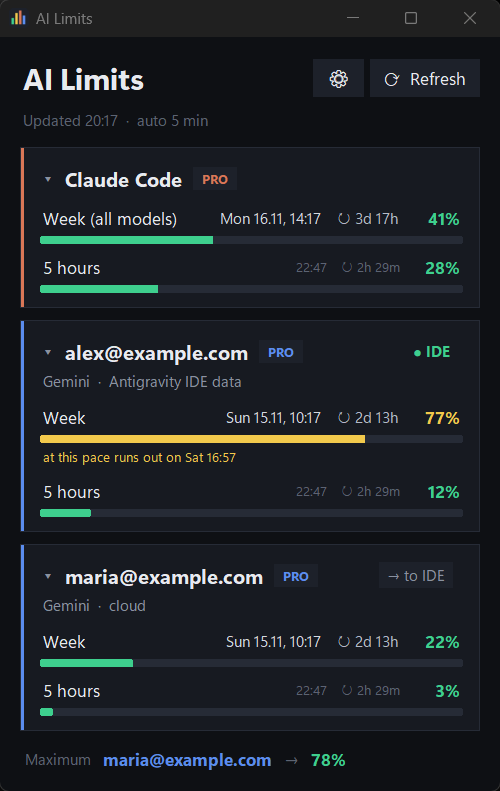
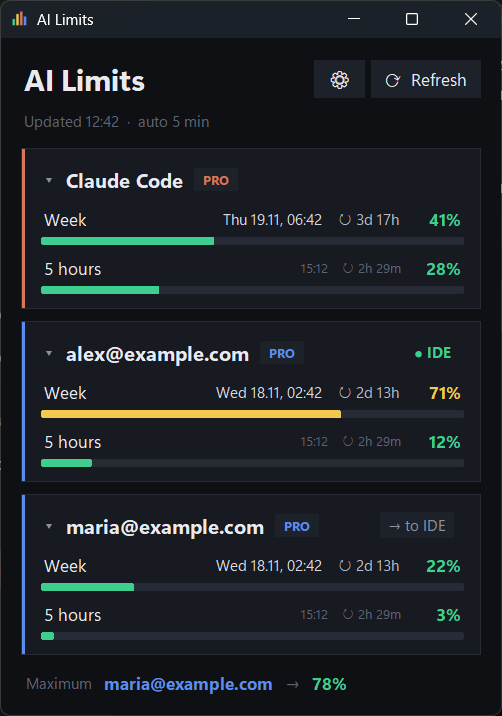
AI Limits 1.4.3: move forecast to chart window, remove source line, fix idle gap rendering on chart

diff --git a/ui_cards.py b/ui_cards.py
@@ -28,7 +28,7 @@ def _vis(w, on):
 
 
 class RowView:
-    """Строка лимита: название, время сброса, отсчёт, процент, полоса и (если есть) строка прогноза.
+    """Строка лимита: название, время сброса, отсчёт, процент и полоса.
     Создаётся один раз, update() меняет только значения. on_click(виджет) — щелчок по строке (график расхода)."""
 
     def __init__(self, parent, name, on_click=None):
@@ -55,27 +55,12 @@ class RowView:
                                "или если войти этим аккаунтом в IDE Antigravity."))
         self.bar = Bar(self.f, 0, FAINT)
         self.bar.pack(fill="x", pady=(4, 0))
-        self.fc = tk.Label(self.f, bg=CARD, fg=YELLOW, font=(FONT, 8), anchor="w")  # прогноз: под полосой
-        self._fc_on = False
         if on_click:
             for w in (self.f, top, self.bar, *top.winfo_children()):
                 w.bind("<Button-1>", lambda e: on_click(self.f), add="+")
                 w.config(cursor="hand2")
 
-    def _forecast(self, line):
-        """Строка «при таком темпе хватит на …, до …» показывается, только когда лимит кончится раньше сброса.
-        line — «хватит на 2 дня 5 часов, до чт 14:00» или None."""
-        if line:
-            _set(self.fc, text=T("при таком темпе {line}", line=line))
-        if bool(line) != self._fc_on:
-            self._fc_on = bool(line)
-            if line:
-                self.fc.pack(fill="x", pady=(2, 0))
-            else:
-                self.fc.pack_forget()
-
-    def update(self, used, resets_at, seen, warn, line=None):
-        self._forecast(line if used is not None else None)
+    def update(self, used, resets_at, seen, warn):
         if used is None:
             for w in (self.pct, self.seen, self.rs, self.time):
                 _vis(w, False)
@@ -105,7 +90,7 @@ class CardView:
     def __init__(self, app, key, title, accent):
         self.app, self.key = app, key
         self.rows, self.collapsible, self.ide_mode = [], False, None
-        self._sub_on = self._content_on = False
+        self._content_on = False
         self._msg_pady = None
         self.outer = tk.Frame(app.body, bg=BG)
         f = tk.Frame(self.outer, bg=CARD, highlightbackground=LINE, highlightthickness=1)
@@ -132,7 +117,6 @@ class CardView:
         self.ide.bind("<Enter>", lambda e: self.ide_mode == "switch" and self.ide.config(fg=FG))
         self.ide.bind("<Leave>", lambda e: self.ide_mode == "switch" and self.ide.config(fg=MUTED))
         self.ide_tip = Tooltip(self.ide, "")
-        self.sub = tk.Label(inner, bg=CARD, fg=MUTED, font=(FONT, 9), anchor="w")
         self.content = tk.Frame(inner, bg=CARD)
         self.msg = tk.Label(self.content, bg=CARD, anchor="w", justify="left", wraplength=380)
         self.rows_box = tk.Frame(self.content, bg=CARD)
@@ -163,8 +147,6 @@ class CardView:
                 self.ide_tip.text = T("Сделать этот аккаунт текущим в IDE Antigravity")
             _vis(self.ide, bool(mode))
 
-        if spec["sub"]:
-            _set(self.sub, text=spec["sub"])
         msg = spec["msg"]  # (текст, цвет, шрифт, отступы) или None
         if msg:
             _set(self.msg, text=msg[0], fg=msg[1], font=msg[2])
@@ -182,15 +164,13 @@ class CardView:
                          for n in names]
             if not names:
                 self.rows_box.config(height=1)  # пустая рамка не держит прежнюю высоту
-        for view, (_, used, resets_at, seen, line) in zip(self.rows, spec["rows"]):
-            view.update(used, resets_at, seen, warn, line)
+        for view, (_, used, resets_at, seen) in zip(self.rows, spec["rows"]):
+            view.update(used, resets_at, seen, warn)
 
-        sub_on, content_on = bool(spec["sub"]), bool(msg or names)
-        if (sub_on, content_on) != (self._sub_on, self._content_on):
-            self._sub_on, self._content_on = sub_on, content_on
-            self.sub.pack_forget()
-            self.content.pack_forget()
-            if sub_on:
-                self.sub.pack(fill="x")
+        content_on = bool(msg or names)
+        if content_on != self._content_on:
+            self._content_on = content_on
             if content_on:
                 self.content.pack(fill="x")
+            else:
+                self.content.pack_forget()

diff --git a/tests/test_gui.py b/tests/test_gui.py
@@ -126,9 +126,9 @@ def main():
     assert app.status.cget("text").startswith("Обновлено")
     step("карточки Claude и двух аккаунтов; данные IDE важнее облачных")
 
-    card = " ".join(texts(app.cards["a@example.com"].outer))
-    assert "при таком темпе хватит на 1 день 3 часа, до " in card and app.cards["a@example.com"].rows[0]._fc_on, card
-    assert not app.cards["a@example.com"].rows[1]._fc_on and not app.cards["b@example.com"].rows[0]._fc_on
+    card = " ".join(texts(app.cards["a@example.com"].outer) + texts(app.cards["b@example.com"].outer))
+    assert "хватит" not in card and "облако" not in card and "Gemini" not in card, card  # ни прогноза, ни источника
+    assert app.fc[("a@example.com", "Неделя")]["line"].startswith("хватит на 1 день 3 часа, до ")
     assert os.path.exists(history.history_file())
     assert getattr(app, "alert_win", None) is None and app.forecast_alerts() == []  # по умолчанию выключены
     app.s["forecast_alerts"] = True
@@ -149,7 +149,8 @@ def main():
     assert "a" in shown and any(t.startswith("до ") for t in shown) and not any("неделя" in t for t in shown), shown
     app.hide_alert()
     app.s["forecast_alerts"] = False
-    step("прогноз: строка в карточке; всплывающее предупреждение выключено по умолчанию, не чаще раза в час")
+    step("прогноз считается, но в карточках его нет; строки источника нет; всплывающее предупреждение выключено"
+         " по умолчанию, не чаще раза в час")
 
     app.show_history("a@example.com", "Неделя", app.cards["a@example.com"].rows[0].f)
     yield wait()
@@ -165,10 +166,9 @@ def main():
     app.close_confirm()
     app.show_popup()
     yield wait()
-    assert any(t.startswith("a — хватит на 1 день") for t in texts(app.popup)), texts(app.popup)
-    assert not any("5 час" in t and "хватит" in t for t in texts(app.popup))
+    assert not any("хватит" in t for t in texts(app.popup)), texts(app.popup)
     app.hide_popup()
-    step("график расхода по щелчку на строке; прогноз в мини-окне трея")
+    step("график расхода по щелчку на строке; в мини-окне трея прогноза нет")
 
     cards, count = dict(app.cards), widgets(app.body)
     STATE["week_a"] = 61.0
@@ -193,12 +193,9 @@ def main():
     def seen():
         return " | ".join(texts(root)) + " | " + app.status.cget("text")
     cards = len(app.cards)
-    for code, words in (("en", ("Refresh", "Week", "5 hours", "Antigravity IDE data", "cloud", "Maximum",
-                                "Updated", "auto 5 min", "at this pace lasts", "→ to IDE")),
-                        ("uk", ("Оновити", "Тиждень", "5 годин", "дані IDE Antigravity", "хмара", "Оновлено",
-                                "авто 5 хв", "за такого темпу вистачить на", "→ в IDE")),
-                        ("ru", ("Обновить", "Неделя", "5 часов", "данные IDE Antigravity", "облако", "Обновлено",
-                                "авто 5 мин", "при таком темпе хватит на"))):
+    for code, words in (("en", ("Refresh", "Week", "5 hours", "Maximum", "Updated", "auto 5 min", "→ to IDE")),
+                        ("uk", ("Оновити", "Тиждень", "5 годин", "Оновлено", "авто 5 хв", "→ в IDE")),
+                        ("ru", ("Обновить", "Неделя", "5 часов", "Обновлено", "авто 5 мин"))):
         app.set_lang(code)
         yield wait()
         text = seen()

diff --git a/ui_history.py b/ui_history.py
@@ -22,11 +22,6 @@ class HistoryMixin:
             self.fc = {}
             L.log_exception("история лимитов", type(e), e, e.__traceback__)
 
-    def fc_line(self, key, window):
-        """«хватит на 2 дня 5 часов, до чт 14:00», если по прогнозу лимит кончится раньше сброса; иначе None."""
-        fc = getattr(self, "fc", {}).get((key.lower(), window))
-        return fc["line"] if fc else None
-
     ALERT_GAP = 3600     # предупреждение по прогнозу об одном лимите — не чаще раза в час
     ALERT_SHIFT = 1800   # …и только если расчётное время исчерпания сдвинулось хотя бы на полчаса
 
@@ -38,10 +33,6 @@ class HistoryMixin:
     @staticmethod
     def _who(key):
         return "Claude" if key == "claude" else key.split("@")[0]
-
-    def forecast_soon(self):
-        """Для мини-окна трея: [(чей лимит, «хватит на …, до …»)] — только недельные лимиты."""
-        return [(self._who(k), fc["line"]) for k, _, fc in self._weekly_soon()]
 
     def forecast_alerts(self):
         """Всплывающие предупреждения по прогнозу: [(чей лимит, «чт 14:00»)]. Включаются галочкой в меню ⚙
@@ -105,11 +96,12 @@ class HistoryMixin:
             cv.create_text(x(t.timestamp()), h - bottom + 3, anchor="n", fill=FAINT, font=(FONT, 8),
                            text=day(t.weekday()) if week else f"{t:%H}:00")
             t += step
-        if len(pts) > 1:
-            cv.create_line([c for ts, used in pts for c in (x(ts), y(used))], fill=GOOGLE, width=max(2, round(2 * k)),
-                           joinstyle="round")
+        width = max(2, round(2 * k))
+        for thin, run in H.graph_path(pts):  # сбросы и нули — линией вдвое тоньше
+            cv.create_line([c for ts, used in run for c in (x(max(ts, now - span)), y(used))], fill=GOOGLE,
+                           width=width / 2 if thin else width, joinstyle="round")
         if pts:
-            ts, used = pts[-1]
+            ts, used, _ = pts[-1]
             r = max(3, round(3 * k))
             cv.create_oval(x(ts) - r, y(used) - r, x(ts) + r, y(used) + r, fill=color_for(used, self.warn), outline="")
         else:

diff --git a/history.py b/history.py
@@ -127,8 +127,33 @@ def record(claude, ag, now=None):
 
 
 def series(key, window, since):
-    """Точки ряда не раньше since: [(время, %)]."""
-    return [(ts, used) for ts, used, _ in load().get((key.lower(), window), []) if ts >= since]
+    """Точки ряда не раньше since: [(время, %, время сброса или None)]."""
+    return [p for p in load().get((key.lower(), window), []) if p[0] >= since]
+
+
+def graph_path(pts):
+    """Ломаная графика по точкам [(время, %, сброс)]: [(тонкая ли, [(время, %), …])], отрезки подряд одной толщины
+    слиты. Если время сброса прошло между двумя точками (простой: программа не опрашивала), значение держится до
+    сброса, падает до нуля и лежит на нуле до следующей точки — без косой линии через простой. Сброс без известного
+    времени (значение упало) — вертикальный спуск у следующей точки. Вертикальные спуски и отрезки на нуле — тонкие."""
+    segs = []
+    for (t0, u0, r0), (t1, u1, _) in zip(pts, pts[1:]):
+        if r0 and t0 < r0 <= t1:
+            segs += [(t0, u0, r0, u0), (r0, u0, r0, 0.0), (r0, 0.0, t1, 0.0), (t1, 0.0, t1, u1)]
+        elif u1 < u0 - 1:
+            segs += [(t0, u0, t1, u0), (t1, u0, t1, u1)]
+        else:
+            segs.append((t0, u0, t1, u1))
+    runs = []
+    for t0, u0, t1, u1 in segs:
+        if (t0, u0) == (t1, u1):
+            continue
+        thin = t0 == t1 or (u0 < 0.5 and u1 < 0.5)
+        if runs and runs[-1][0] == thin and runs[-1][1][-1] == (t0, u0):
+            runs[-1][1].append((t1, u1))
+        else:
+            runs.append((thin, [(t0, u0), (t1, u1)]))
+    return runs
 
 
 def when_text(ts, now=None):

diff --git a/tests/test_backend.py b/tests/test_backend.py
@@ -414,6 +414,20 @@ def test_history():
     assert ":" in history.when_text(now, now) and len(history.when_text(now + 3 * 86400, now).split()) == 2
     step("история хранится 60 дней: устаревшие и испорченные строки убираются")
 
+    # график: простой между сессиями — значение держится до сброса, падает до нуля, лежит на нуле до новой точки
+    pts = [(0, 10, 9000), (600, 40, 9000), (40000, 2, 58000), (40600, 5, 58000)]
+    assert history.graph_path(pts) == [
+        (False, [(0, 10), (600, 40), (9000, 40)]),
+        (True, [(9000, 40), (9000, 0.0), (40000, 0.0), (40000, 2)]),
+        (False, [(40000, 2), (40600, 5)])], history.graph_path(pts)
+    # сброс без известного времени: вертикальный спуск у следующей точки, дальше нули — тонко
+    pts = [(0, 90, None), (600, 100, None), (1200, 0, None), (1800, 0, None), (2400, 7, None)]
+    assert history.graph_path(pts) == [
+        (False, [(0, 90), (600, 100), (1200, 100)]),
+        (True, [(1200, 100), (1200, 0), (1800, 0)]),
+        (False, [(1800, 0), (2400, 7)])], history.graph_path(pts)
+    step("график: без косой линии через простой; сбросы и нули отдельно (тонкой линией)")
+
 
 # ------------------------------------------------------------------ переводы
 def test_translations():

diff --git a/i18n.py b/i18n.py
@@ -140,7 +140,6 @@ TEXTS = {
     "облако · действующий лимит": ("cloud · active limit", "хмара · чинний ліміт"),
     # ---- прогноз и график
     "хватит на {span}, до {when}": ("lasts {span}, until {when}", "вистачить на {span}, до {when}"),
-    "при таком темпе {line}": ("at this pace {line}", "за такого темпу {line}"),
     "до {when}": ("until {when}", "до {when}"),
     "Предупреждения по прогнозу": ("Forecast warnings", "Попередження за прогнозом"),
     "Расход за 7 дней": ("Usage over 7 days", "Витрата за 7 днів"),

diff --git a/ui_tray.py b/ui_tray.py
@@ -325,10 +325,6 @@ class TrayMixin:
                          font=(FONT, 8, "bold")).pack(side="left", padx=(6, 0))
             cell(i, 2, week)
             cell(i, 5, h5)
-        for j, (name, line) in enumerate(self.forecast_soon()[:3]):  # прогноз по недельным лимитам
-            tk.Label(box, text=f"{name} — {line}", bg=CARD, fg=YELLOW, font=(FONT, 8),
-                     anchor="w").grid(row=len(rows) + 2 + j, column=0, columnspan=7, sticky="w",
-                                      pady=(6 if j == 0 else 0, 0))
 
         p.update_idletasks()
         w, h = p.winfo_reqwidth(), p.winfo_reqheight()

diff --git a/version.py b/version.py
@@ -5,7 +5,7 @@
 """
 import sys
 
-__version__ = "1.4.2"
+__version__ = "1.4.3"
 
 
 def pyinstaller_version_info():

diff --git a/README.ru.md b/README.ru.md
@@ -23,9 +23,9 @@
 - Иконка в трее с мини-окном при наведении, тёмное контекстное меню, сворачивание и закрытие в трей,
   автозапуск вместе с Windows.
 - Всплывающее предупреждение над часами, когда лимит пересекает выбранный порог (70–95 % или выключено).
-- История расхода (хранится 60 дней) и прогноз: если лимит закончится раньше своего сброса, карточка и окно
-  у трея показывают, на сколько его хватит; щелчок по строке лимита открывает график расхода. Всплывающие
-  предупреждения по прогнозу по умолчанию выключены (⚙ → «Предупреждения по прогнозу»).
+- История расхода (хранится 60 дней): щелчок по строке лимита открывает график расхода и прогноз, на сколько
+  хватит лимита при нынешнем темпе. Всплывающие предупреждения по прогнозу по умолчанию выключены
+  (⚙ → «Предупреждения по прогнозу»).
 - Автообновление (1 / 5 / 15 минут), режим «поверх всех окон», сворачиваемые карточки. Карточки обновляются на
   месте, без мигания.
 - Консольная версия с текстовым выводом и выводом в JSON.

diff --git a/README.md b/README.md
@@ -22,9 +22,8 @@ It can also switch the account the Antigravity IDE is signed in to with one clic
   (the IDE is restarted; the previous credentials are backed up and restored if the switch fails).
 - Tray icon with a mini window on hover, a dark context menu, minimize/close to tray, start with Windows.
 - Pop-up warning above the clock when a limit crosses the threshold you chose (70–95 %, or off).
-- Usage history (kept for 60 days) and a forecast: when a limit is going to run out before it resets, the card
-  and the tray window say how long it will last; click a limit row to see its usage chart. Pop-up forecast
-  warnings are off by default (⚙ → Forecast warnings).
+- Usage history (kept for 60 days): click a limit row to see its usage chart and a forecast of how long the limit
+  will last at the current pace. Pop-up forecast warnings are off by default (⚙ → Forecast warnings).
 - Auto refresh (1 / 5 / 15 min), always-on-top, collapsible cards. Cards update in place without flicker.
 - Console version with plain-text and JSON output.
 - Version shown in the settings menu and in the exe properties; unhandled errors are written to a log file.
